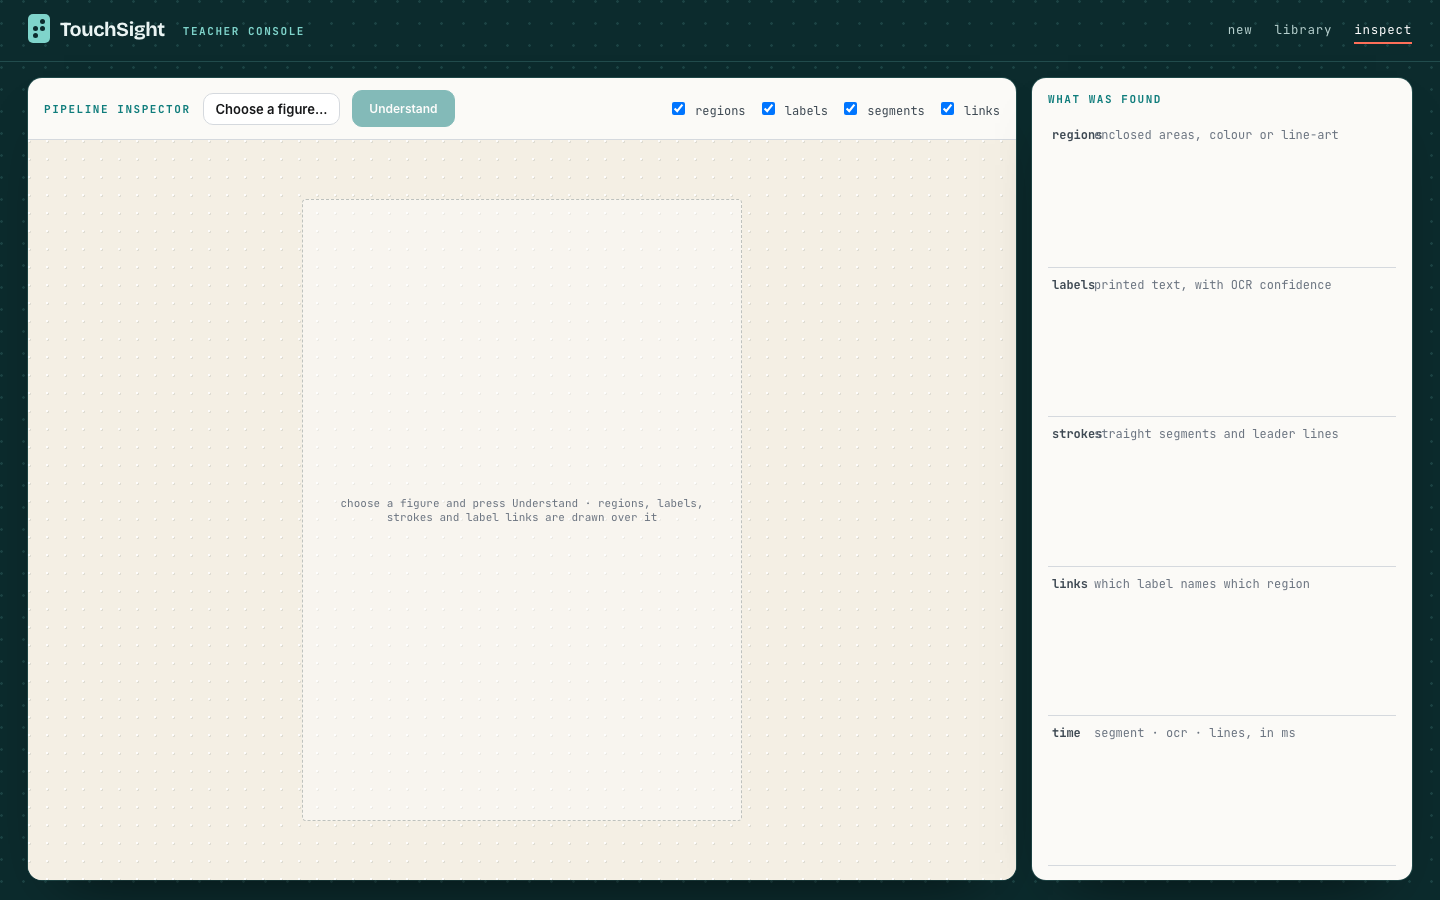
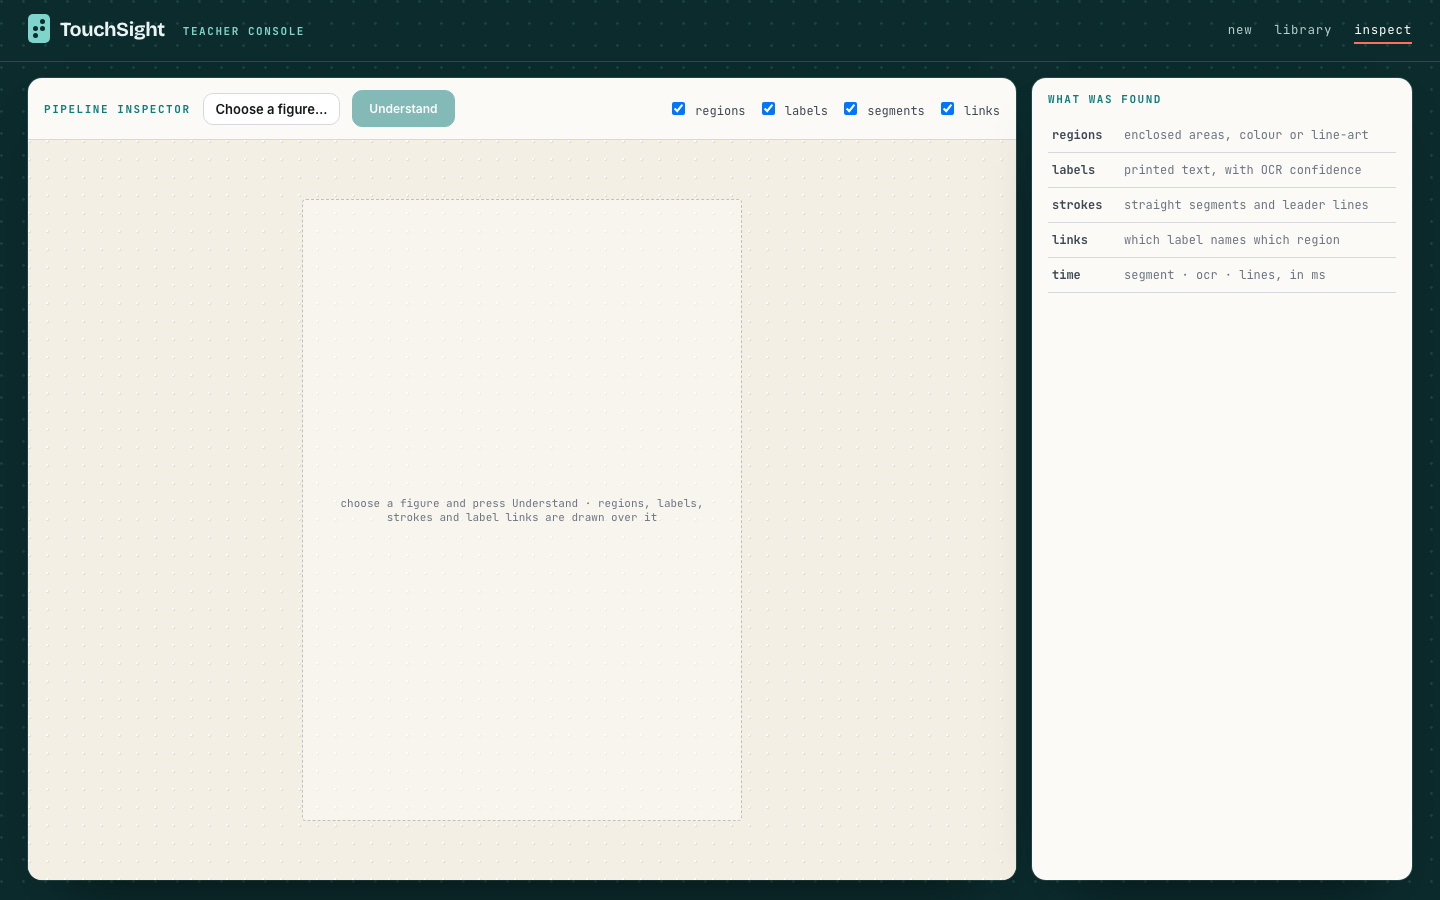
Inspector side pane and canvas fit

diff --git a/app/src/routes/teacher/teacher.css b/app/src/routes/teacher/teacher.css
@@ -111,7 +111,9 @@
 .insp-bar { display: flex; gap: 12px; align-items: center; flex-wrap: wrap; padding: 12px 16px; border-bottom: 1px solid var(--line); font-size: 12px; }
 .insp-bar label.mono { color: var(--slate); } .insp-pick { padding: 7px 12px; font-size: 13px; max-width: 260px; overflow: hidden; text-overflow: ellipsis; white-space: nowrap; } .insp-stage { color: var(--muted); font-size: 11px; }
 .insp-body { min-height: 0; overflow: auto; display: grid; place-items: center; padding: 16px; background: var(--cream, #f4efe4); background-image: radial-gradient(circle at 1px 1px, rgba(255,255,255,.9) 0.8px, transparent 1.3px), radial-gradient(circle at 1.8px 1.9px, rgba(16,41,43,.10) 0.8px, transparent 1.3px); background-size: 18px 18px; }
-.insp canvas { max-width: 100%; max-height: 100%; display: block; border-radius: 8px; box-shadow: 0 24px 50px -20px rgba(12,43,45,.4); }
+.insp canvas { height: 100%; width: auto; max-width: 100%; object-fit: contain; display: block; border-radius: 8px; box-shadow: 0 24px 50px -20px rgba(12,43,45,.4); }
+.insp-side { grid-template-rows: none !important; align-content: start; overflow: auto; }
+.insp-side .wb-rules-ghost li { grid-template-columns: 64px 1fr; }
 .insp-ghost { width: min(100%, 46%); }
 .insp-side { padding: 14px 16px; display: grid; gap: 12px; align-content: start; }
 .insp-facts { font-size: 12.5px; line-height: 1.7; padding: 10px 12px; background: #fff; border: 1px solid var(--line); border-radius: 10px; }
